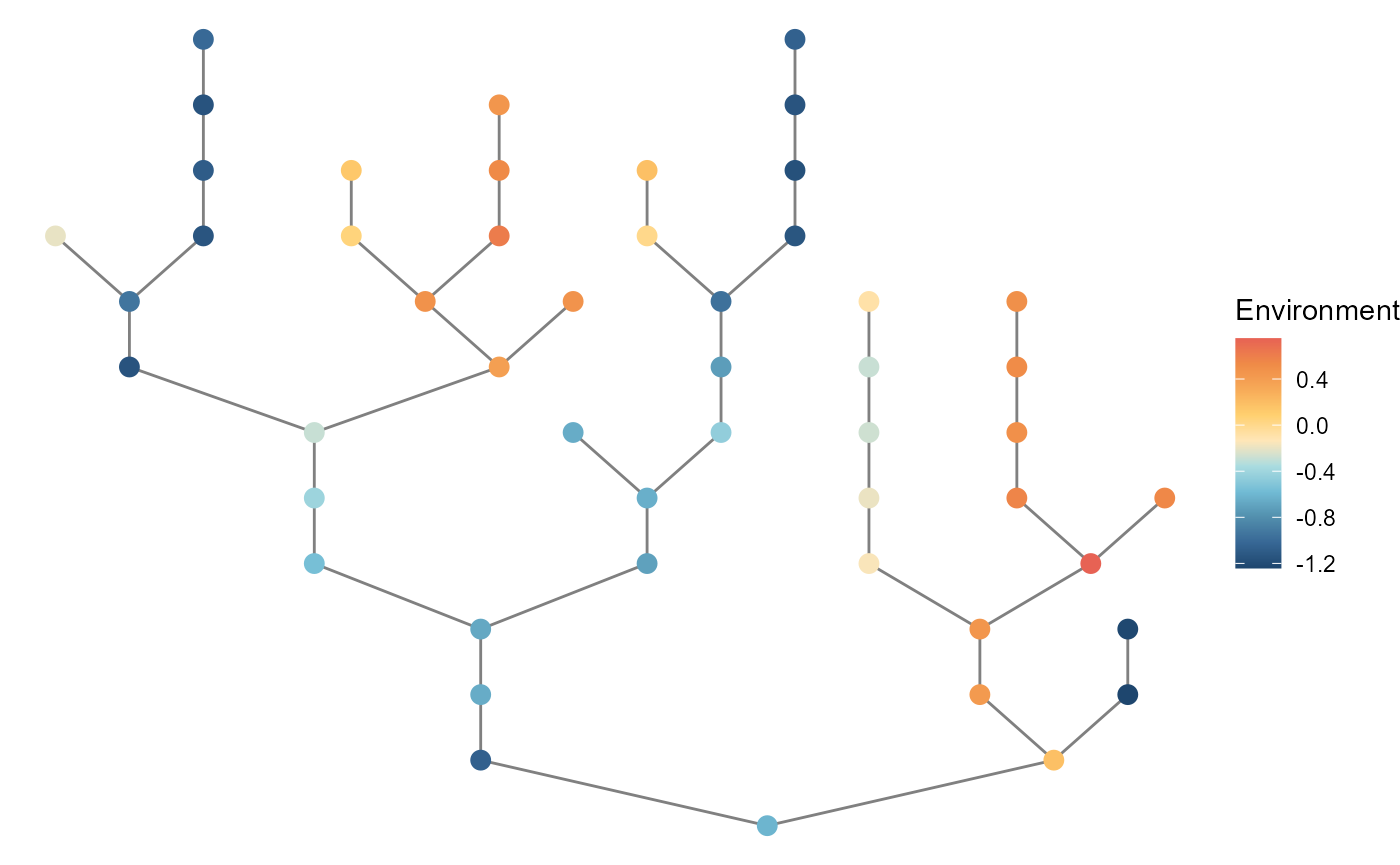
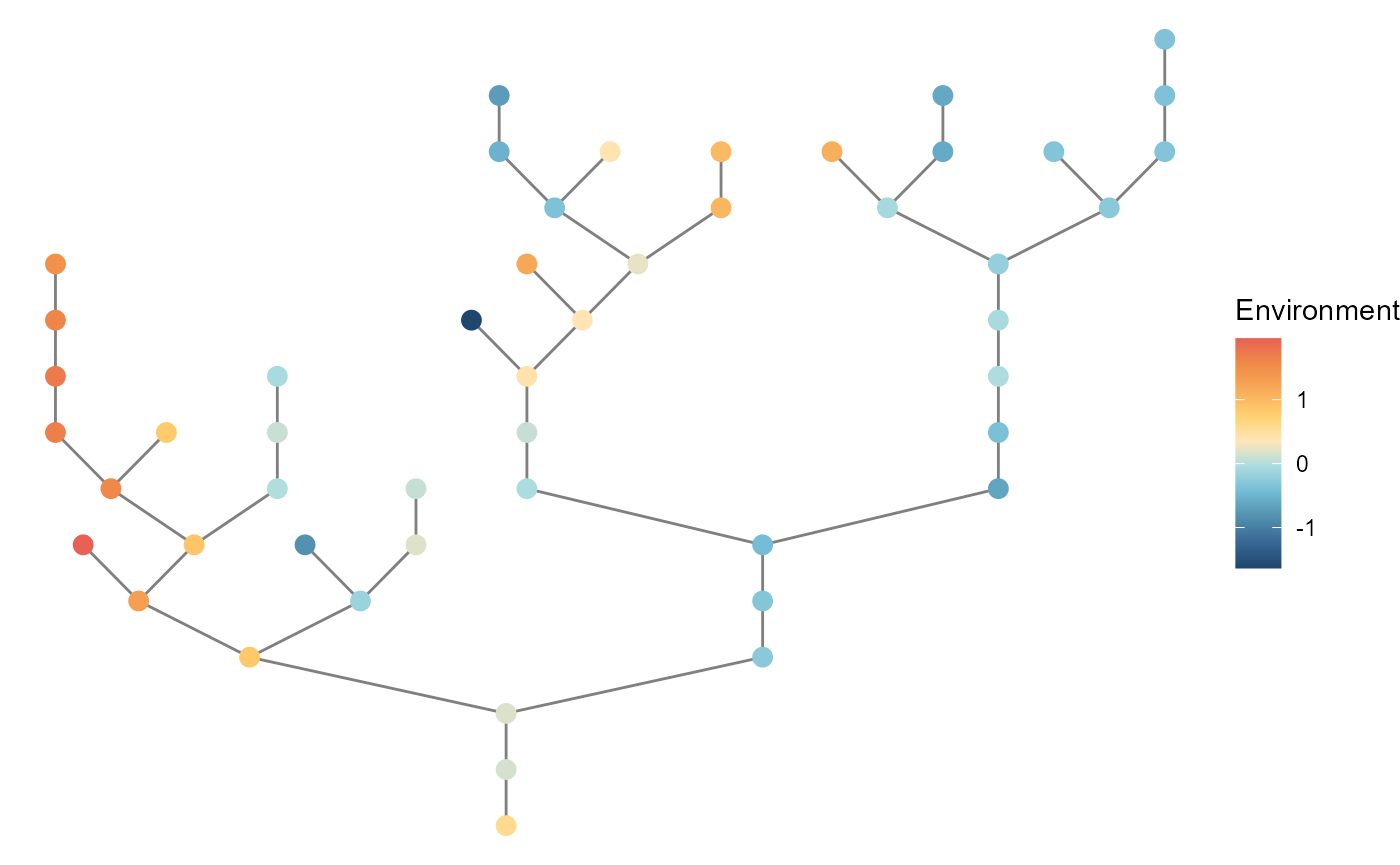
edit: rebuild

diff --git a/docs/articles/mcsim.html b/docs/articles/mcsim.html
@@ -204,63 +204,63 @@ species that are randomly chosen:</p>
 <code class="sourceCode R"><span class="va">mc</span>
 <span class="co">#&gt; $df_dynamics</span>
 <span class="co">#&gt; <span style="color: #949494;"># A tibble: 25,000 x 9</span></span>
-<span class="co">#&gt;    timestep patch_id mean_env     env carrying_capacity species niche_optim</span>
-<span class="co">#&gt;       <span style="color: #949494; font-style: italic;">&lt;dbl&gt;</span>    <span style="color: #949494; font-style: italic;">&lt;dbl&gt;</span>    <span style="color: #949494; font-style: italic;">&lt;dbl&gt;</span>   <span style="color: #949494; font-style: italic;">&lt;dbl&gt;</span>             <span style="color: #949494; font-style: italic;">&lt;dbl&gt;</span>   <span style="color: #949494; font-style: italic;">&lt;dbl&gt;</span>       <span style="color: #949494; font-style: italic;">&lt;dbl&gt;</span></span>
-<span class="co">#&gt; <span style="color: #BCBCBC;"> 1</span>        1        1        0 -<span style="color: #BB0000;">0.025</span><span style="color: #BB0000; text-decoration: underline;">6</span>               100       1      -<span style="color: #BB0000;">0.999</span></span>
-<span class="co">#&gt; <span style="color: #BCBCBC;"> 2</span>        1        1        0 -<span style="color: #BB0000;">0.025</span><span style="color: #BB0000; text-decoration: underline;">6</span>               100       2      -<span style="color: #BB0000;">0.380</span></span>
-<span class="co">#&gt; <span style="color: #BCBCBC;"> 3</span>        1        1        0 -<span style="color: #BB0000;">0.025</span><span style="color: #BB0000; text-decoration: underline;">6</span>               100       3       0.400</span>
-<span class="co">#&gt; <span style="color: #BCBCBC;"> 4</span>        1        1        0 -<span style="color: #BB0000;">0.025</span><span style="color: #BB0000; text-decoration: underline;">6</span>               100       4       0.810</span>
-<span class="co">#&gt; <span style="color: #BCBCBC;"> 5</span>        1        1        0 -<span style="color: #BB0000;">0.025</span><span style="color: #BB0000; text-decoration: underline;">6</span>               100       5      -<span style="color: #BB0000;">0.735</span></span>
-<span class="co">#&gt; <span style="color: #BCBCBC;"> 6</span>        1        2        0  0.073<span style="text-decoration: underline;">4</span>               100       1      -<span style="color: #BB0000;">0.999</span></span>
-<span class="co">#&gt; <span style="color: #BCBCBC;"> 7</span>        1        2        0  0.073<span style="text-decoration: underline;">4</span>               100       2      -<span style="color: #BB0000;">0.380</span></span>
-<span class="co">#&gt; <span style="color: #BCBCBC;"> 8</span>        1        2        0  0.073<span style="text-decoration: underline;">4</span>               100       3       0.400</span>
-<span class="co">#&gt; <span style="color: #BCBCBC;"> 9</span>        1        2        0  0.073<span style="text-decoration: underline;">4</span>               100       4       0.810</span>
-<span class="co">#&gt; <span style="color: #BCBCBC;">10</span>        1        2        0  0.073<span style="text-decoration: underline;">4</span>               100       5      -<span style="color: #BB0000;">0.735</span></span>
-<span class="co">#&gt; <span style="color: #949494;"># ... with 24,990 more rows, and 2 more variables: r_xt &lt;dbl&gt;, abundance &lt;dbl&gt;</span></span>
+<span class="co">#&gt;    timestep patch_id mean_env     env carrying_capaci~ species niche_optim  r_xt</span>
+<span class="co">#&gt;       <span style="color: #949494; font-style: italic;">&lt;dbl&gt;</span>    <span style="color: #949494; font-style: italic;">&lt;dbl&gt;</span>    <span style="color: #949494; font-style: italic;">&lt;dbl&gt;</span>   <span style="color: #949494; font-style: italic;">&lt;dbl&gt;</span>            <span style="color: #949494; font-style: italic;">&lt;dbl&gt;</span>   <span style="color: #949494; font-style: italic;">&lt;dbl&gt;</span>       <span style="color: #949494; font-style: italic;">&lt;dbl&gt;</span> <span style="color: #949494; font-style: italic;">&lt;dbl&gt;</span></span>
+<span class="co">#&gt; <span style="color: #BCBCBC;"> 1</span>        1        1        0 -<span style="color: #BB0000;">0.196</span>               100       1      -<span style="color: #BB0000;">0.910</span> 1.50 </span>
+<span class="co">#&gt; <span style="color: #BCBCBC;"> 2</span>        1        1        0 -<span style="color: #BB0000;">0.196</span>               100       2       0.228 2.36 </span>
+<span class="co">#&gt; <span style="color: #BCBCBC;"> 3</span>        1        1        0 -<span style="color: #BB0000;">0.196</span>               100       3       0.988 0.312</span>
+<span class="co">#&gt; <span style="color: #BCBCBC;"> 4</span>        1        1        0 -<span style="color: #BB0000;">0.196</span>               100       4       0.147 2.58 </span>
+<span class="co">#&gt; <span style="color: #BCBCBC;"> 5</span>        1        1        0 -<span style="color: #BB0000;">0.196</span>               100       5       0.612 1.78 </span>
+<span class="co">#&gt; <span style="color: #BCBCBC;"> 6</span>        1        2        0 -<span style="color: #BB0000;">0.018</span><span style="color: #BB0000; text-decoration: underline;">5</span>              100       1      -<span style="color: #BB0000;">0.910</span> 0.950</span>
+<span class="co">#&gt; <span style="color: #BCBCBC;"> 7</span>        1        2        0 -<span style="color: #BB0000;">0.018</span><span style="color: #BB0000; text-decoration: underline;">5</span>              100       2       0.228 3.12 </span>
+<span class="co">#&gt; <span style="color: #BCBCBC;"> 8</span>        1        2        0 -<span style="color: #BB0000;">0.018</span><span style="color: #BB0000; text-decoration: underline;">5</span>              100       3       0.988 0.607</span>
+<span class="co">#&gt; <span style="color: #BCBCBC;"> 9</span>        1        2        0 -<span style="color: #BB0000;">0.018</span><span style="color: #BB0000; text-decoration: underline;">5</span>              100       4       0.147 3.39 </span>
+<span class="co">#&gt; <span style="color: #BCBCBC;">10</span>        1        2        0 -<span style="color: #BB0000;">0.018</span><span style="color: #BB0000; text-decoration: underline;">5</span>              100       5       0.612 2.11 </span>
+<span class="co">#&gt; <span style="color: #949494;"># ... with 24,990 more rows, and 1 more variable: abundance &lt;dbl&gt;</span></span>
 <span class="co">#&gt; </span>
 <span class="co">#&gt; $df_species</span>
 <span class="co">#&gt; <span style="color: #949494;"># A tibble: 5 x 6</span></span>
 <span class="co">#&gt;   species mean_abundance    r0 niche_optim sd_niche_width p_dispersal</span>
 <span class="co">#&gt;     <span style="color: #949494; font-style: italic;">&lt;dbl&gt;</span>          <span style="color: #949494; font-style: italic;">&lt;dbl&gt;</span> <span style="color: #949494; font-style: italic;">&lt;dbl&gt;</span>       <span style="color: #949494; font-style: italic;">&lt;dbl&gt;</span>          <span style="color: #949494; font-style: italic;">&lt;dbl&gt;</span>       <span style="color: #949494; font-style: italic;">&lt;dbl&gt;</span></span>
-<span class="co">#&gt; <span style="color: #BCBCBC;">1</span>       1            0       4      -<span style="color: #BB0000;">0.999</span>          0.591         0.1</span>
-<span class="co">#&gt; <span style="color: #BCBCBC;">2</span>       2            0       4      -<span style="color: #BB0000;">0.380</span>          0.145         0.1</span>
-<span class="co">#&gt; <span style="color: #BCBCBC;">3</span>       3           50.8     4       0.400          0.799         0.1</span>
-<span class="co">#&gt; <span style="color: #BCBCBC;">4</span>       4            0       4       0.810          0.442         0.1</span>
-<span class="co">#&gt; <span style="color: #BCBCBC;">5</span>       5           26.5     4      -<span style="color: #BB0000;">0.735</span>          0.725         0.1</span>
+<span class="co">#&gt; <span style="color: #BCBCBC;">1</span>       1            0       4      -<span style="color: #BB0000;">0.910</span>          0.557         0.1</span>
+<span class="co">#&gt; <span style="color: #BCBCBC;">2</span>       2           70.6     4       0.228          0.461         0.1</span>
+<span class="co">#&gt; <span style="color: #BCBCBC;">3</span>       3            0       4       0.988          0.539         0.1</span>
+<span class="co">#&gt; <span style="color: #BCBCBC;">4</span>       4           78.1     4       0.147          0.406         0.1</span>
+<span class="co">#&gt; <span style="color: #BCBCBC;">5</span>       5           36.9     4       0.612          0.867         0.1</span>
 <span class="co">#&gt; </span>
 <span class="co">#&gt; $df_patch</span>
 <span class="co">#&gt; <span style="color: #949494;"># A tibble: 5 x 5</span></span>
 <span class="co">#&gt;   patch_id alpha_div mean_env carrying_capacity disturbance</span>
 <span class="co">#&gt;      <span style="color: #949494; font-style: italic;">&lt;dbl&gt;</span>     <span style="color: #949494; font-style: italic;">&lt;dbl&gt;</span>    <span style="color: #949494; font-style: italic;">&lt;dbl&gt;</span>             <span style="color: #949494; font-style: italic;">&lt;dbl&gt;</span>       <span style="color: #949494; font-style: italic;">&lt;dbl&gt;</span></span>
-<span class="co">#&gt; <span style="color: #BCBCBC;">1</span>        1         2        0               100           0</span>
-<span class="co">#&gt; <span style="color: #BCBCBC;">2</span>        2         2        0               100           0</span>
-<span class="co">#&gt; <span style="color: #BCBCBC;">3</span>        3         2        0               100           0</span>
-<span class="co">#&gt; <span style="color: #BCBCBC;">4</span>        4         2        0               100           0</span>
-<span class="co">#&gt; <span style="color: #BCBCBC;">5</span>        5         2        0               100           0</span>
+<span class="co">#&gt; <span style="color: #BCBCBC;">1</span>        1         3        0               100           0</span>
+<span class="co">#&gt; <span style="color: #BCBCBC;">2</span>        2         3        0               100           0</span>
+<span class="co">#&gt; <span style="color: #BCBCBC;">3</span>        3         3        0               100           0</span>
+<span class="co">#&gt; <span style="color: #BCBCBC;">4</span>        4         3        0               100           0</span>
+<span class="co">#&gt; <span style="color: #BCBCBC;">5</span>        5         3        0               100           0</span>
 <span class="co">#&gt; </span>
 <span class="co">#&gt; $df_diversity</span>
 <span class="co">#&gt; <span style="color: #949494;"># A tibble: 1 x 3</span></span>
 <span class="co">#&gt;   alpha_div beta_div gamma_div</span>
 <span class="co">#&gt;       <span style="color: #949494; font-style: italic;">&lt;dbl&gt;</span>    <span style="color: #949494; font-style: italic;">&lt;dbl&gt;</span>     <span style="color: #949494; font-style: italic;">&lt;dbl&gt;</span></span>
-<span class="co">#&gt; <span style="color: #BCBCBC;">1</span>         2        1         2</span>
+<span class="co">#&gt; <span style="color: #BCBCBC;">1</span>         3        1         3</span>
 <span class="co">#&gt; </span>
 <span class="co">#&gt; $df_xy_coord</span>
 <span class="co">#&gt; <span style="color: #949494;"># A tibble: 5 x 2</span></span>
 <span class="co">#&gt;   x_coord y_coord</span>
 <span class="co">#&gt;     <span style="color: #949494; font-style: italic;">&lt;dbl&gt;</span>   <span style="color: #949494; font-style: italic;">&lt;dbl&gt;</span></span>
-<span class="co">#&gt; <span style="color: #BCBCBC;">1</span>   1.69     4.14</span>
-<span class="co">#&gt; <span style="color: #BCBCBC;">2</span>   0.768    8.80</span>
-<span class="co">#&gt; <span style="color: #BCBCBC;">3</span>   5.13     1.57</span>
-<span class="co">#&gt; <span style="color: #BCBCBC;">4</span>   4.30     8.29</span>
-<span class="co">#&gt; <span style="color: #BCBCBC;">5</span>   3.38     2.62</span>
+<span class="co">#&gt; <span style="color: #BCBCBC;">1</span>   8.40     6.20</span>
+<span class="co">#&gt; <span style="color: #BCBCBC;">2</span>   1.05     9.75</span>
+<span class="co">#&gt; <span style="color: #BCBCBC;">3</span>   9.90     5.94</span>
+<span class="co">#&gt; <span style="color: #BCBCBC;">4</span>   0.958    4.38</span>
+<span class="co">#&gt; <span style="color: #BCBCBC;">5</span>   1.96     3.46</span>
 <span class="co">#&gt; </span>
 <span class="co">#&gt; $distance_matrix</span>
 <span class="co">#&gt;          1        2        3        4        5</span>
-<span class="co">#&gt; 1 0.000000 4.753230 4.295422 4.901601 2.268198</span>
-<span class="co">#&gt; 2 4.753230 0.000000 8.444370 3.567499 6.706830</span>
-<span class="co">#&gt; 3 4.295422 8.444370 0.000000 6.765663 2.047468</span>
-<span class="co">#&gt; 4 4.901601 3.567499 6.765663 0.000000 5.739518</span>
-<span class="co">#&gt; 5 2.268198 6.706830 2.047468 5.739518 0.000000</span>
+<span class="co">#&gt; 1 0.000000 8.161091 1.530225 7.658685 6.994477</span>
+<span class="co">#&gt; 2 8.161091 0.000000 9.642518 5.378838 6.355437</span>
+<span class="co">#&gt; 3 1.530225 9.642518 0.000000 9.079837 8.319130</span>
+<span class="co">#&gt; 4 7.658685 5.378838 9.079837 0.000000 1.354253</span>
+<span class="co">#&gt; 5 6.994477 6.355437 8.319130 1.354253 0.000000</span>
 <span class="co">#&gt; </span>
 <span class="co">#&gt; $interaction_matrix</span>
 <span class="co">#&gt;      [,1] [,2] [,3] [,4] [,5]</span>
